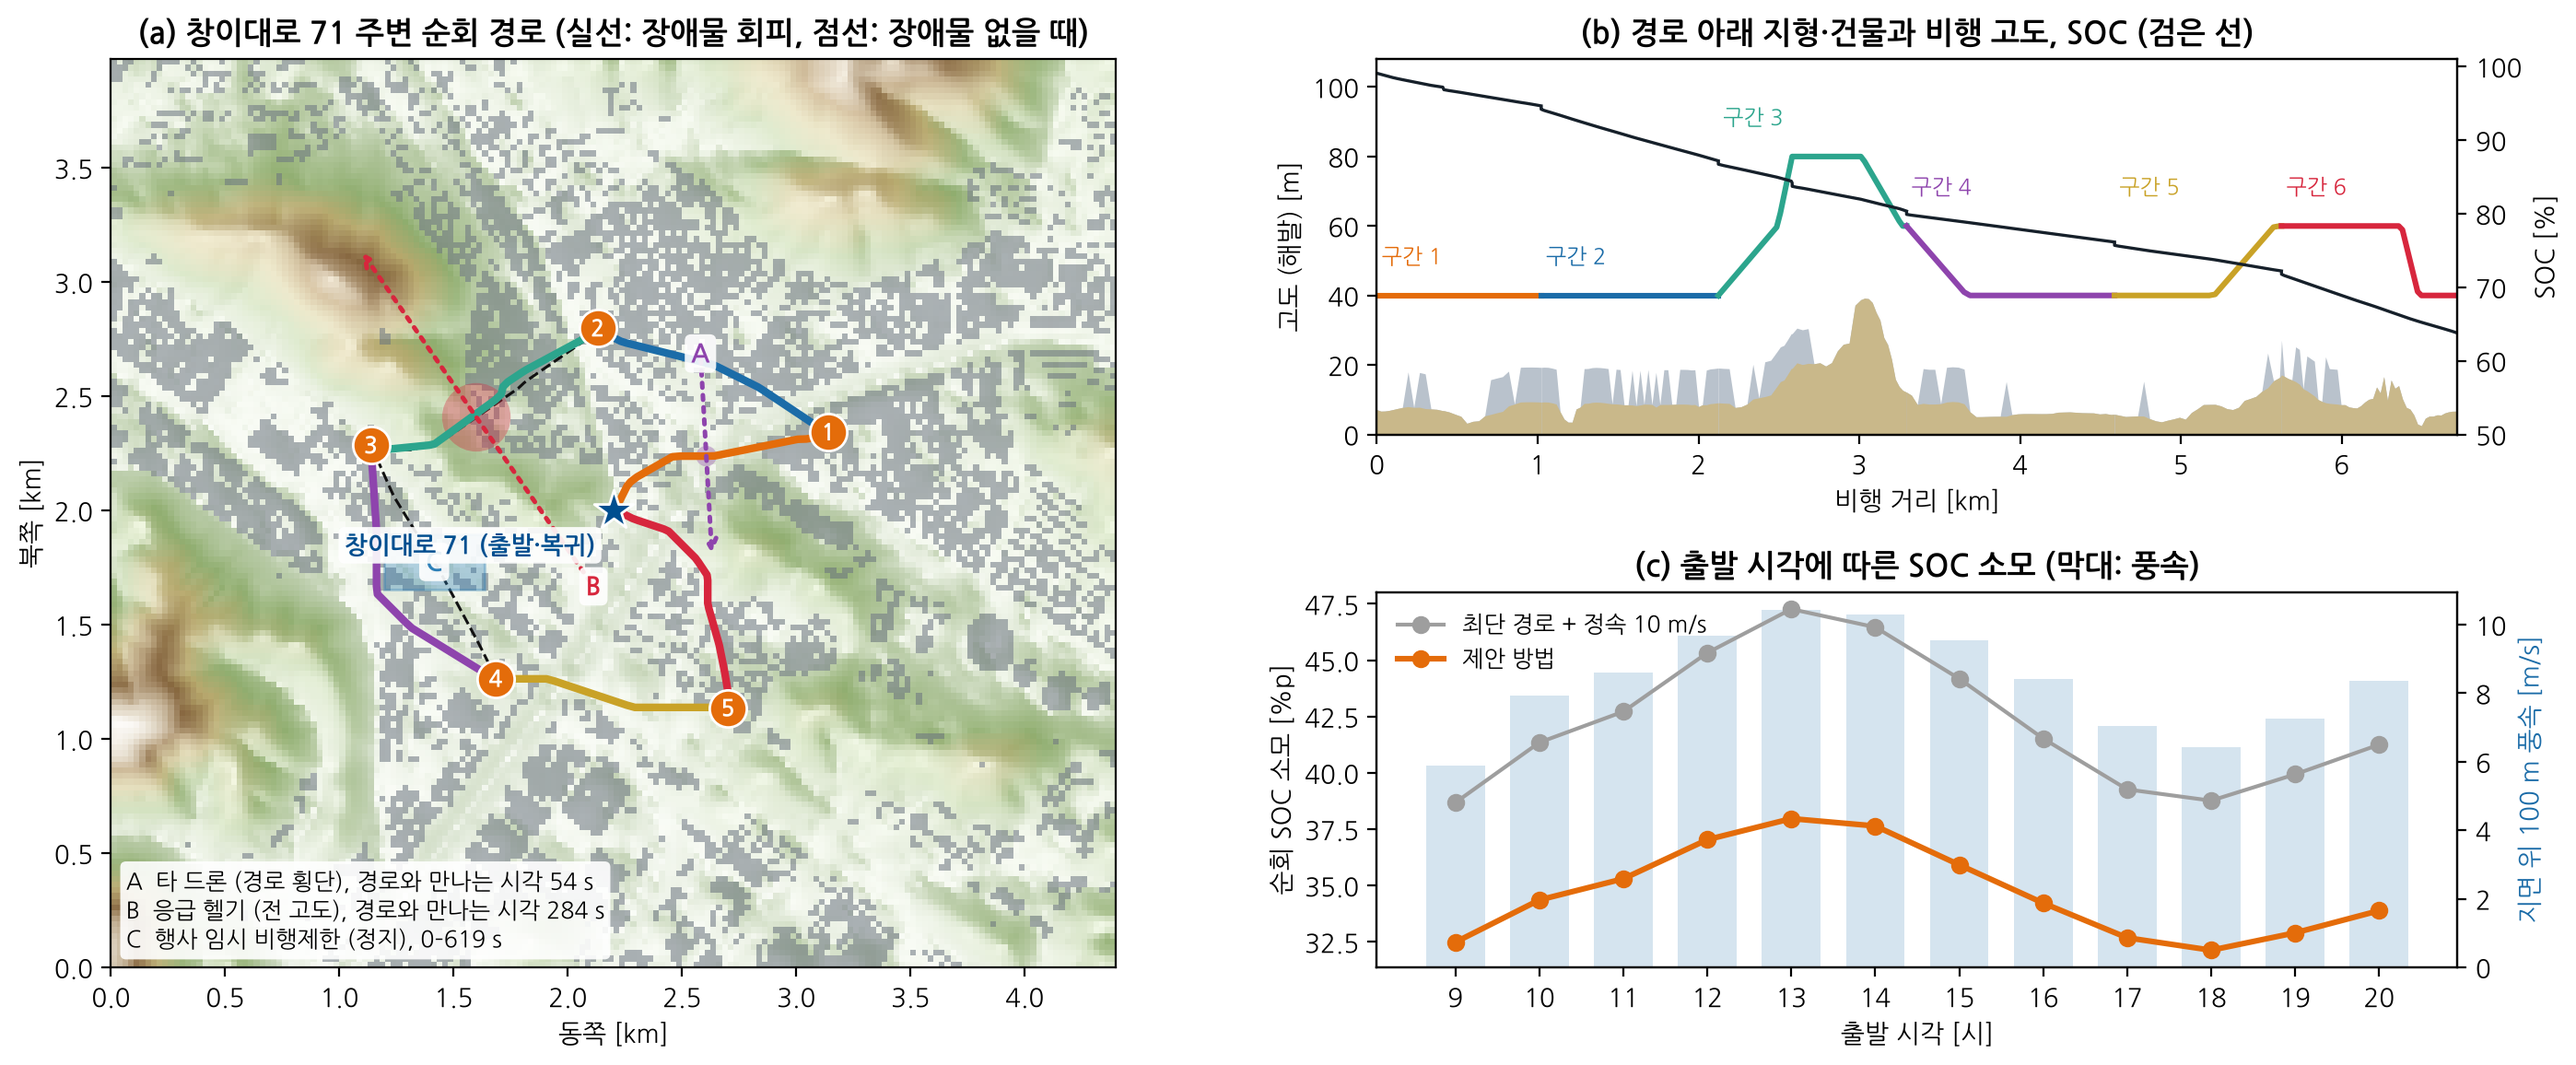
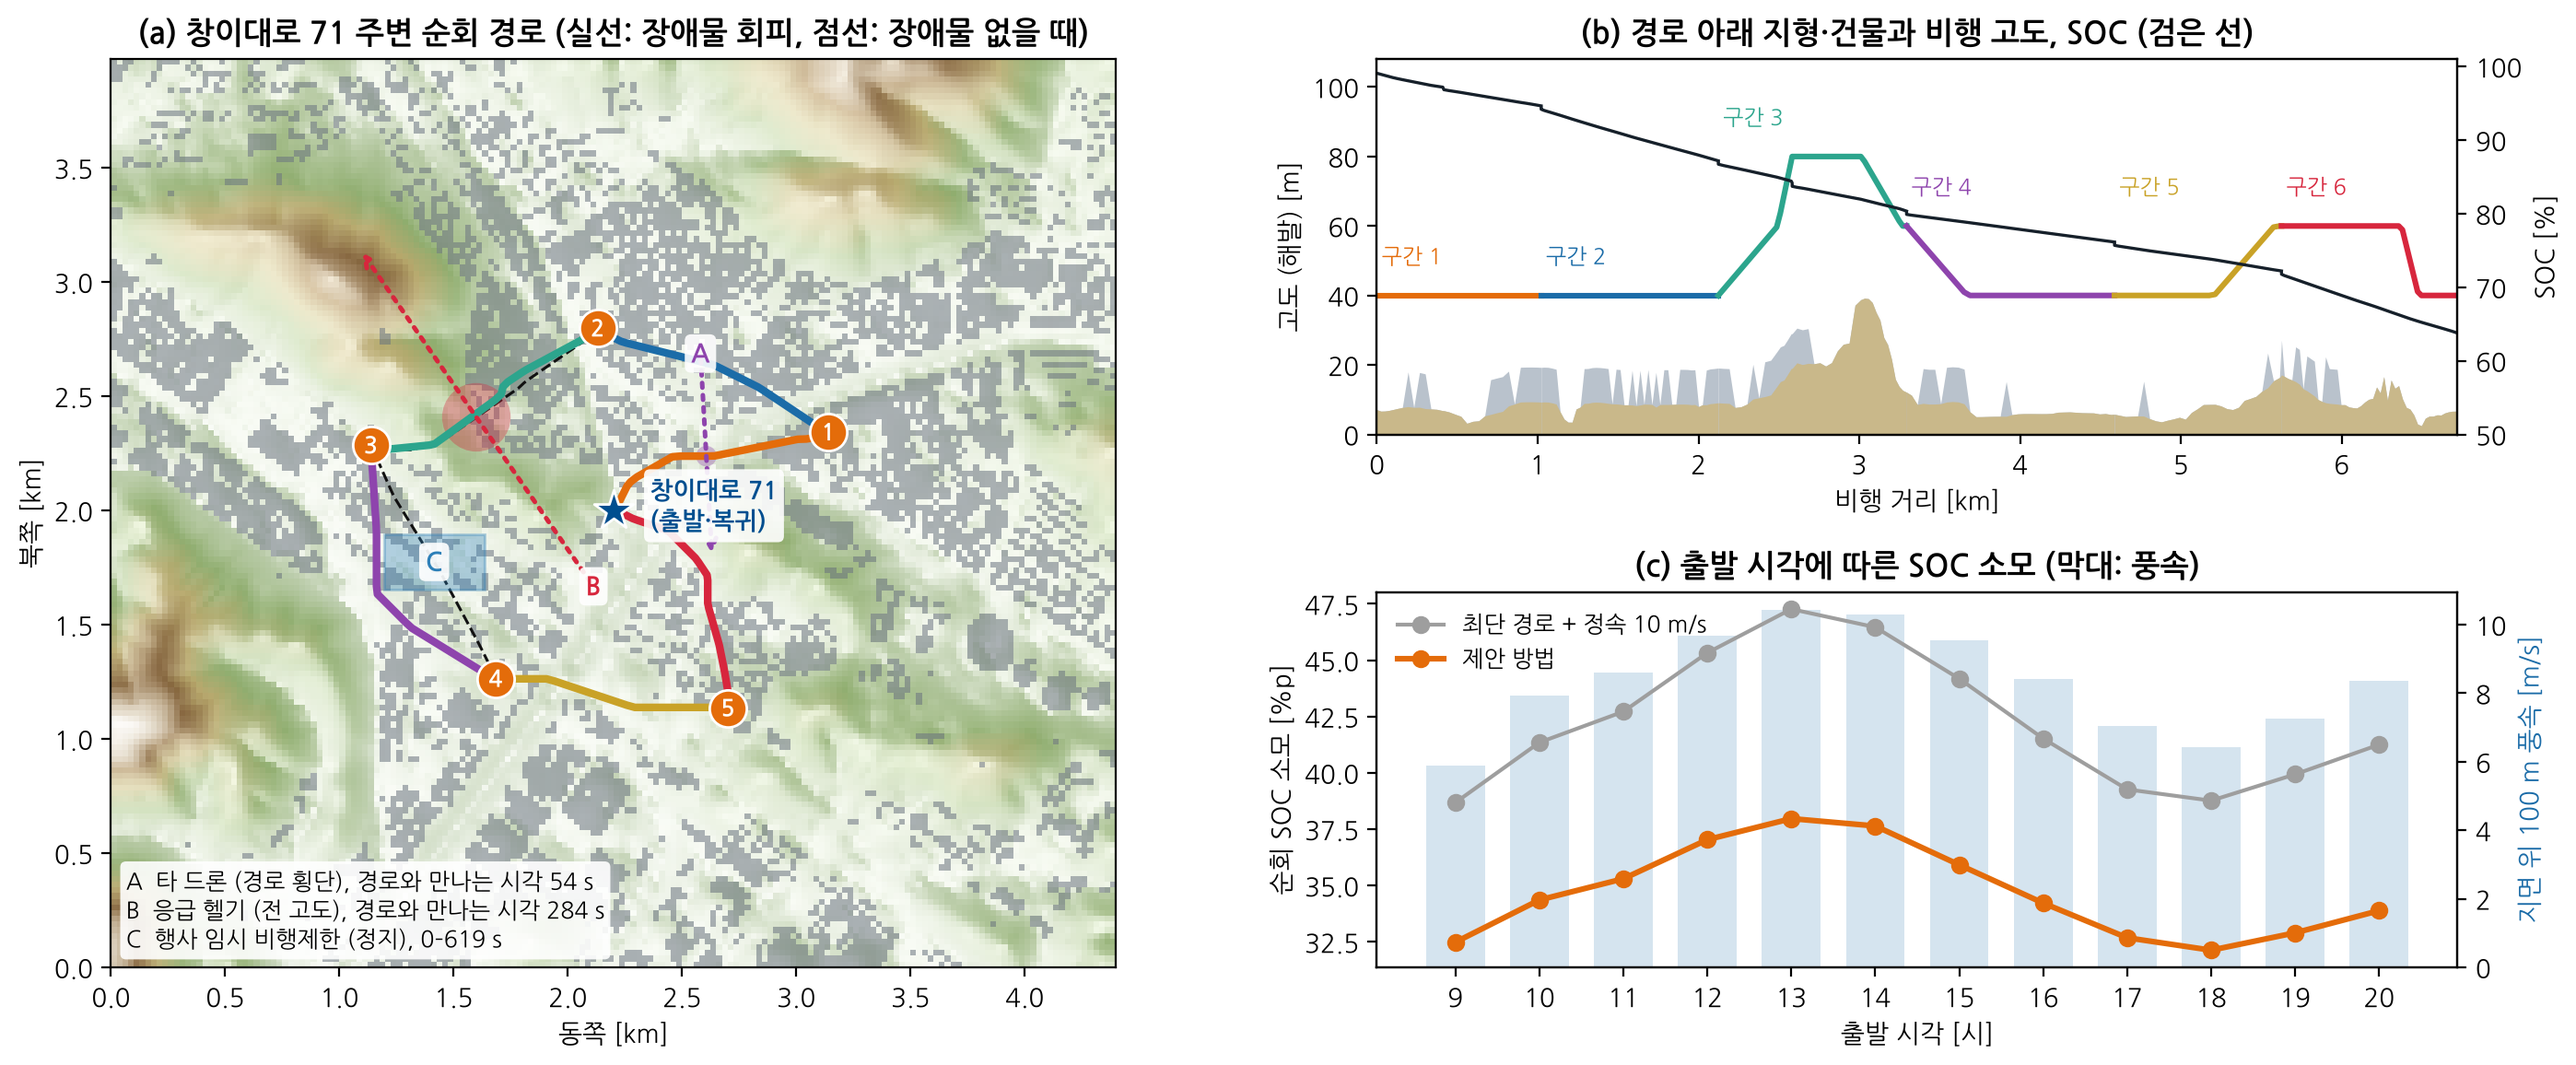
Changwon tour document, updated figures and screenshot, 3D path visibility fixes
- docs/changwon_tour.md: 3D obstacle editing, tour missions, Changwon site and simulation results
- map3d.js: draw legs with hover samples correctly, show occluded path through buildings, wait note excludes dwell
- README, target doc links

Claude-Session: https://claude.ai/code/session_01PMzL383y1CQVyfmPbjyeSP

Changed region(s): [[0.1245, 0.436, 0.3112, 0.5294]]

diff --git a/src/dpo/webapp/static/map3d.js b/src/dpo/webapp/static/map3d.js
@@ -463,6 +463,9 @@ function buildTrack(res) {
   return tr;
 }
 function tube(pts, color, radius) {
+  // 호버 대기 구간은 같은 점이 여러 번 나온다. 겹친 점을 그대로 두면 곡선 계산이 깨지므로 걸러 낸다.
+  pts = pts.filter((p, q) => q === 0 || p.distanceTo(pts[q - 1]) > 0.5);
+  if (pts.length < 2) return new THREE.Group();
   const curve = new THREE.CatmullRomCurve3(pts, false, "catmullrom", 0.0);
   return new THREE.Mesh(new THREE.TubeGeometry(curve, Math.max(pts.length * 2, 8), radius, 8, false), new THREE.MeshLambertMaterial({ color }));
 }
@@ -492,10 +495,13 @@ function drawPlan() {
     if (!L.air_start) pts.unshift(new THREE.Vector3(a.x, a.y, groundAt(a.x, a.y)));
     if (!L.air_end) pts.push(new THREE.Vector3(b.x, b.y, groundAt(b.x, b.y)));
     if (pts.length > 1) {
-      // 건물 뒤에 가린 부분도 보이도록, 깊이 검사를 끈 옅은 선을 한 겹 더 그린다
-      const ghost = new THREE.Line(new THREE.BufferGeometry().setFromPoints(pts),
-                                   new THREE.LineBasicMaterial({ color, transparent: true, opacity: 0.55, depthTest: false }));
-      ghost.renderOrder = 5;
+      // 건물 뒤에 가린 부분도 보이도록, 깊이 검사를 끈 반투명 관을 한 겹 더 그린다
+      const ghost = tube(pts, color, 14);
+      if (ghost.isMesh) {
+        ghost.material.dispose();
+        ghost.material = new THREE.MeshBasicMaterial({ color, transparent: true, opacity: 0.5, depthTest: false, depthWrite: false });
+        ghost.renderOrder = 5;
+      }
       G.path.add(tube(pts, color, 14), curtain(s, color), ghost);
     }
   }

diff --git a/docs/changwon_tour.md b/docs/changwon_tour.md
@@ -1,0 +1,136 @@
+# 창원 창이대로 71 주변 순회 비행 시뮬레이션과 3D 장애물 편집
+
+> 근거 데이터: `results/changwon.json` · 그림 F27 · 화면 `results/figures/platform_3d_changwon.png` · 미션 `results/missions/changwon_x650_15h_tour.waypoints`
+> 재현: `PYTHONPATH=src python scripts/build_site.py changwon` → `PYTHONPATH=src python scripts/run_changwon.py`
+> 플랫폼: `PYTHONPATH=src python -m dpo.webapp --site changwon` → `http://127.0.0.1:8765/3d`
+
+이 문서는 세 가지를 다룹니다. (1) 3D 화면의 장애물 편집, (2) 출발지에서 경유점을 돌고 돌아오는 순회 임무, (3) 창원 창이대로 71 주변에서 대상 기체(Holybro X650)로 한 시뮬레이션입니다.
+
+| 항목 | 한 줄 요약 |
+|---|---|
+| 3D 장애물 편집 | 3D 지도를 눌러 장애물을 놓고, 경로점 구슬을 끌어 옮기고, 크기·고도·시각·불확실성을 고칩니다. |
+| 순회 임무 | 출발지 → 경유점들 → 출발지를 착륙 없이 이어 비행하고, 미션 파일은 하나로 나옵니다. |
+| 창원 시뮬레이션 | 6.7 km 순회에 SOC 37.2 %p를 쓰고, 예시 장애물 3종을 모두 피했습니다(최소 이격 28 m). |
+
+X650의 전력 모델은 비행 자료로 보정하지 않은 추정입니다(`docs/target_x650.md` 2장). SOC 절댓값은 참고용입니다.
+
+---
+
+## 1. 3D 화면의 장애물 편집
+
+2D 화면(`/`)에만 있던 편집 기능을 3D 화면(`/3d`)에 넣었습니다.
+
+- **추가:** `+ 원기둥`·`+ 구`·`+ 박스`를 누른 뒤 지도에서 놓을 곳을 누릅니다.
+- **이동 경로:** `+ 경로점`을 누르고 지도를 차례로 누르면 경로점이 이어집니다. 경로점이 1개면 정지, 2개 이상이면 구간별 등속 이동입니다.
+- **끌어 옮기기:** 선택한 장애물의 경로점 구슬을 끌면 위치가 바뀝니다. 출발지와 경유점 표식도 같은 방법으로 옮깁니다.
+- **선택:** 지도에서 장애물 몸체를 누르거나 목록에서 고릅니다.
+- **속성:** 이름, 종류, 반경(또는 박스 반폭), 고도 범위, 안전 이격, 존재 시간, 경로점별 좌표·시각, 위치 불확실성(σ0, σv, σt)을 고칩니다.
+- **불확실성 표시:** 위험 한도 ε을 고르면 안전 이격에 불확실성 팽창을 더한 바깥 껍질이 시간에 따라 커지는 모습으로 보입니다.
+- **검증·저장:** `검증`은 서버의 허용 범위 검사를 그대로 씁니다. JSON 내보내기·불러오기는 2D 화면과 같은 형식입니다.
+- **변경 안내:** 계획한 뒤 장애물이나 임무를 고치면 "경로 생성을 다시 눌러 주세요"가 뜨고, 미션 내보내기는 다시 계획할 때까지 숨깁니다.
+
+브라우저 자동 시험으로 확인한 동작입니다. 지도 클릭으로 장애물 추가, 경로점 2개 추가, 반경·이름·불확실성 수정, 경로점 구슬 끌기(목표 위치와 일치), 표에서 시각 수정, 박스·구 추가와 삭제, 몸체 클릭 선택, 검증, 경유점 추가·삭제. 페이지 오류는 없었습니다.
+
+**3D 화면에 없는 것:** 비행 중 변경 발표에 따른 재계획은 2D 화면과 실시간 화면(`/live`)에만 있습니다. 3D 화면에서는 장애물을 고친 뒤 처음부터 다시 계획합니다.
+
+## 2. 순회 임무
+
+- **정의:** 출발지에서 이륙해 경유점을 순서대로 지나고 출발지로 돌아와 착륙합니다. 중간에는 착륙하지 않습니다.
+- **계획:** 경유점 사이의 각 구간을 시공간 계획기로 차례로 계획합니다. 다음 구간은 앞 구간이 끝난 위치·고도·시각·남은 에너지에서 시작합니다.
+- **경유점 체류:** 경유점마다 정한 시간(기본 10 s)만큼 그 자리에서 호버합니다. 호버 에너지도 SOC에 들어갑니다.
+- **미션 내보내기:** 이륙~착륙이 한 번이므로 ArduPilot 미션 파일도 하나입니다. 체류와 장애물 회피 대기는 `NAV_LOITER_TIME`으로 들어갑니다.
+- **제약:** 경유점은 최대 12개입니다. 순회 임무는 비행 중 재계획을 지원하지 않습니다. 경유점 순서는 사용자가 정한 대로이며, 순서를 최적화하지는 않습니다.
+
+## 3. 창원 지도
+
+| 항목 | 내용 |
+|---|---|
+| 기준 지점 | 창원시 의창구 창이대로 71 (창원시농업기술센터, 명서동) |
+| 좌표 | 북위 35.23923°, 동경 128.64658° (Overture Maps 장소 자료의 '창원시농업기술센터') |
+| 범위 | 기준 지점을 가운데 둔 4.4 × 4.0 km |
+| 지형 | Copernicus GLO-30 DSM, 지면 고도 -1–199 m |
+| 건물 | Overture Maps 5,712동, 최고 171 m |
+| 계획 격자 | 수평 25 m, 수직 20 m, 해발 20–360 m, 지면 위 30–150 m |
+| 바람 | NOAA GFS 2026-10-27 00Z 예보, 지면 위 100 m 풍속 5.9–10.4 m/s (09–20시), 북북서풍 |
+
+- **좌표 확인:** 주소로 좌표를 주는 서비스는 이 환경에서 접속이 막혀 있었습니다. 웹 검색으로 창이대로 71이 창원시농업기술센터임을 확인하고, 지도 자료에서 그 시설의 좌표를 찾았습니다. 같은 자료에서 창이대로 45(약 230 m 거리)와 창이대로85번길(약 160 m 거리)이 양옆에 있어 위치는 맞는 것으로 보입니다. 건물 단위 오차(수십 m)는 있을 수 있습니다 [확인요망].
+- **비행금지구역:** 이 지역에는 금지구역을 등록하지 않았습니다. 실제 공역 제한(관제권, 비행금지·제한구역, 인구밀집지역 규정)은 확인하지 않았으며, 실제 비행 전에 반드시 확인하고 승인을 받아야 합니다.
+- **바람 날짜:** 판교 시뮬레이션과 같은 날을 썼습니다. 창원에서 특별히 고른 날이 아닙니다.
+
+기본 순회 경유점 5곳은 기준 지점에서 0.8–1.1 km 떨어진 곳에 자동으로 놓았습니다(3D 화면에서 옮기거나 다시 찍을 수 있습니다).
+
+| 경유점 | 지역 좌표 (x, y) [m] | 위도, 경도 |
+|---|---|---|
+| 1 | (3140, 2342) | 35.24231, 128.65691 |
+| 2 | (2131, 2797) | 35.24641, 128.64581 |
+| 3 | (1138, 2285) | 35.24180, 128.63490 |
+| 4 | (1684, 1263) | 35.23258, 128.64091 |
+| 5 | (2700, 1134) | 35.23142, 128.65207 |
+
+## 4. 시뮬레이션 결과
+
+조건: Holybro X650, 탑재 0 kg, 15시 출발, 경유점마다 10 s 체류, 예비 SOC 20 %.
+
+**예시 장애물** (기본 순회 경로와 실제로 만나도록 시각을 맞춤)
+
+| 장애물 | 크기 | 움직임 | 경로와의 관계 |
+|---|---|---|---|
+| 타 드론 (경로 횡단) | 원기둥 반경 30 m, 전 고도 | 15 m/s 이동, 24–84 s | 구간 1을 54 s에 가로지름 |
+| 응급 헬기 (전 고도) | 원기둥 반경 120 m, 전 고도 | 20 m/s 이동, 239–329 s | 구간 3을 284 s에 가로지름 |
+| 행사 임시 비행제한 (정지) | 박스 440×240 m, 전 고도 | 정지, 0–619 s | 구간 4 위 |
+
+**세 경우의 결과**
+
+| 경우 | SOC 소모 | 도착 SOC | 비행 시간 | 거리 | 회피 대기 | 장애물 최소 이격 | 충돌 표본 |
+|---|---|---|---|---|---|---|---|
+| 장애물 없음 | 35.6 %p | 64.4 % | 672 s | 6.57 km | 0 s | – | 0 |
+| 예시 장애물 3종 | 37.2 %p | 62.8 % | 707 s | 6.72 km | 24 s | 28 m | 0 |
+| 장애물 + 위치 불확실성 (ε = 0.05) | 38.5 %p | 61.5 % | 739 s | 6.78 km | 47 s | 28 m | 0 |
+
+- **장애물을 무시한 경로는 구간 1·3·4에서 충돌합니다.** 계획한 경로는 세 경우 모두 충돌이 없었습니다.
+- **회피 비용은 SOC 1.5 %p, 시간 36 s입니다.** 타 드론과 헬기는 지나갈 때까지 기다렸고(합계 24 s), 행사 제한 구역은 돌아갔습니다.
+- **위치 불확실성을 넣으면 더 보수적으로 납니다.** σ0 10 m, σv 0.5 m/s, ε 0.05에서 SOC가 1.3 %p, 시간이 31 s 더 듭니다.
+- **세 경우 모두 예비 20 %를 크게 남깁니다**(도착 SOC 61.5–64.4 %).
+
+**구간별 (예시 장애물 3종)**
+
+| 구간 | 에너지 | SOC | 시간 | 거리 | 고도(해발) | 장애물 최소 이격 |
+|---|---|---|---|---|---|---|
+| 구간 1 | 42 kJ | 5.3 %p | 98 s | 1.02 km | 40–40 m | 48 m |
+| 구간 2 | 58 kJ | 7.5 %p | 134 s | 1.10 km | 40–40 m | 796 m |
+| 구간 3 | 53 kJ | 6.8 %p | 124 s | 1.17 km | 40–80 m | 84 m |
+| 구간 4 | 33 kJ | 4.2 %p | 97 s | 1.29 km | 40–60 m | 28 m |
+| 구간 5 | 31 kJ | 3.9 %p | 80 s | 1.04 km | 40–60 m | 392 m |
+| 구간 6 | 73 kJ | 9.4 %p | 174 s | 1.10 km | 40–60 m | 978 m |
+
+비행 고도는 해발 40–80 m로, 지면 위 약 30–60 m입니다. 구간 3에서 언덕과 건물을 넘느라 80 m까지 올라갑니다.
+
+**방법 비교** (장애물 없음, 15시)
+
+| 방법 | SOC 소모 | 비행 시간 | 거리 |
+|---|---|---|---|
+| 최단 경로 + 정속 10 m/s | 44.2 %p | 848 s | 6.38 km |
+| 최단 경로 + 속도 최적화 | 39.3 %p | 731 s | 6.38 km |
+| 제안 방법 | 35.9 %p | 678 s | 6.53 km |
+
+- 제안 방법은 정속 최단 경로보다 SOC를 8.3 %p 적게 쓰고 170 s 빨리 돕니다.
+- 출발 시각 09–20시에 제안 방법은 32.1–38.0 %p, 정속 최단 경로는 38.7–47.3 %p를 씁니다. 바람이 센 13시에 가장 많이 듭니다.
+
+![changwon](../results/figures/F27_changwon_tour.png)
+
+![platform_3d_changwon](../results/figures/platform_3d_changwon.png)
+
+**미션 파일** (`results/missions/changwon_x650_15h_tour.waypoints`, 예시 장애물 3종)
+- 항목 76개: 경로점 39개, 속도 변경 27회, 호버 대기 7회
+- 출발지 지면 기준 상대 고도 33–73 m, 대지속도 7–15 m/s
+- 미션의 도착 SOC가 계획 결과와 일치하고(0.3 %p 이내), `pymavlink` 미션 로더가 76개 항목을 모두 읽습니다.
+
+## 5. 한계
+- **모의 결과입니다.** 실기체 비행도, ArduPilot 모의 비행(SITL)도 하지 않았습니다.
+- **X650 전력 모델은 추정입니다.** 가정에 따라 SOC가 ±20 % 정도 달라질 수 있습니다(`docs/target_x650.md`).
+- **기준 좌표는 지도 자료의 시설 위치입니다.** 도로명주소 좌표를 직접 받은 것이 아닙니다.
+- **공역 제한을 확인하지 않았습니다.** 금지구역이 없다는 뜻이 아닙니다.
+- **건물 높이의 상당수는 추정입니다.** 실측 높이가 없는 건물은 층수나 용도로 추정했습니다.
+- **예시 장애물은 가상입니다.** 경로와 만나도록 일부러 시각을 맞췄습니다.
+- **이 기체는 주변 비행체를 스스로 탐지하지 못합니다**(ADS-B 수신기 없음). 이동 장애물 정보는 지상에서 받아 넣는다고 가정했습니다.
+- **계획 격자의 층 간격은 20 m입니다.** 층을 바꾸는 경사 구간에서는 비행 가능 하한보다 최대 10 m 낮아질 수 있습니다.

diff --git a/README.md b/README.md
@@ -8,6 +8,10 @@
 - 최신 연구 대비 정식화 비교: [`docs/algorithm_comparison.md`](docs/algorithm_comparison.md) (문제 (P) 정의, 문헌별 정식화, 가정 축소 실험)
 - 확장안 (8방향 탐색 + 고도별 균일·선형 바람, LUT): [`docs/extension_8way_linear_wind.md`](docs/extension_8way_linear_wind.md)
 - 3D 시공간 확장 (동적 장애물) + 장애물 편집 플랫폼 + 장애물 변경 시 이벤트 기반 재계획: [`docs/spatiotemporal_dynamic_obstacles.md`](docs/spatiotemporal_dynamic_obstacles.md)
+- **창원 창이대로 71 주변 순회 시뮬레이션과 3D 장애물 편집**: [`docs/changwon_tour.md`](docs/changwon_tour.md)
+  - 지역 전환: `python -m dpo.webapp --site changwon` (또는 환경변수 `DPO_SITE`), 자료 수집 `scripts/build_site.py`
+  - 3D 화면(`/3d`)에서 장애물 추가·끌어 옮기기·속성 편집, 순회 임무(경유점), 단일 ArduPilot 미션
+  - 결과 `scripts/run_changwon.py` → `results/changwon.json`, 그림 F27
 - **실증 대상 기체(Holybro X650, ArduPilot) 반영과 3D 지도 경로 생성**: [`docs/target_x650.md`](docs/target_x650.md)
   - 기체 프리셋 `src/dpo/drones.py` (전력 모델은 제원·제조사 호버 시간 기반 추정), 결과 `scripts/run_x650.py` → `results/x650.json`, 그림 F26
   - 3D 지도 화면 `http://127.0.0.1:8765/3d` (지형·건물·바람·경로·이동 장애물, 지도에서 출발·도착 지정)

diff --git a/docs/target_x650.md b/docs/target_x650.md
@@ -177,7 +177,7 @@
 
 ## 7. 한계
 - X650 전력 모델은 추정입니다. 비행 기록으로 보정하지 않았습니다.
-- 대상 지역은 그대로 성남 판교·분당입니다. 실제 실증 장소 정보는 받지 못했습니다.
+- 이 문서의 결과는 성남 판교·분당 지도 기준입니다. 창원 창이대로 71 주변 시뮬레이션은 `docs/changwon_tour.md`에 있습니다.
 - 미션 파일은 형식 검증(pymavlink)까지만 했습니다. SITL이나 실기체에서 비행해 보지 않았습니다.
 - 3D 지도의 건물 높이는 7,109동 중 1,257동만 실측값이고, 나머지는 층수나 용도로 추정했습니다.
-- 3D 화면은 계획과 내보내기만 다룹니다. 장애물 편집은 2D 화면(`/`), 비행 중 재계획은 실시간 화면(`/live`)에 있습니다.
+- 3D 화면에서 장애물 편집과 순회 임무를 할 수 있습니다(`docs/changwon_tour.md`). 비행 중 재계획은 2D 화면(`/`)과 실시간 화면(`/live`)에 있습니다.
